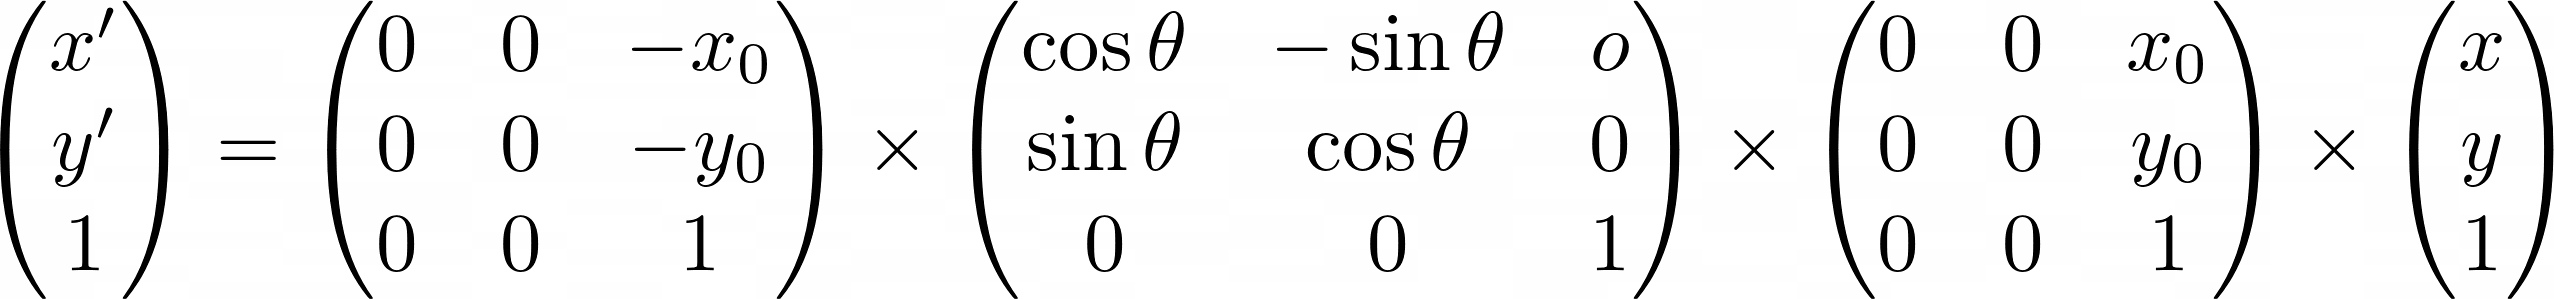
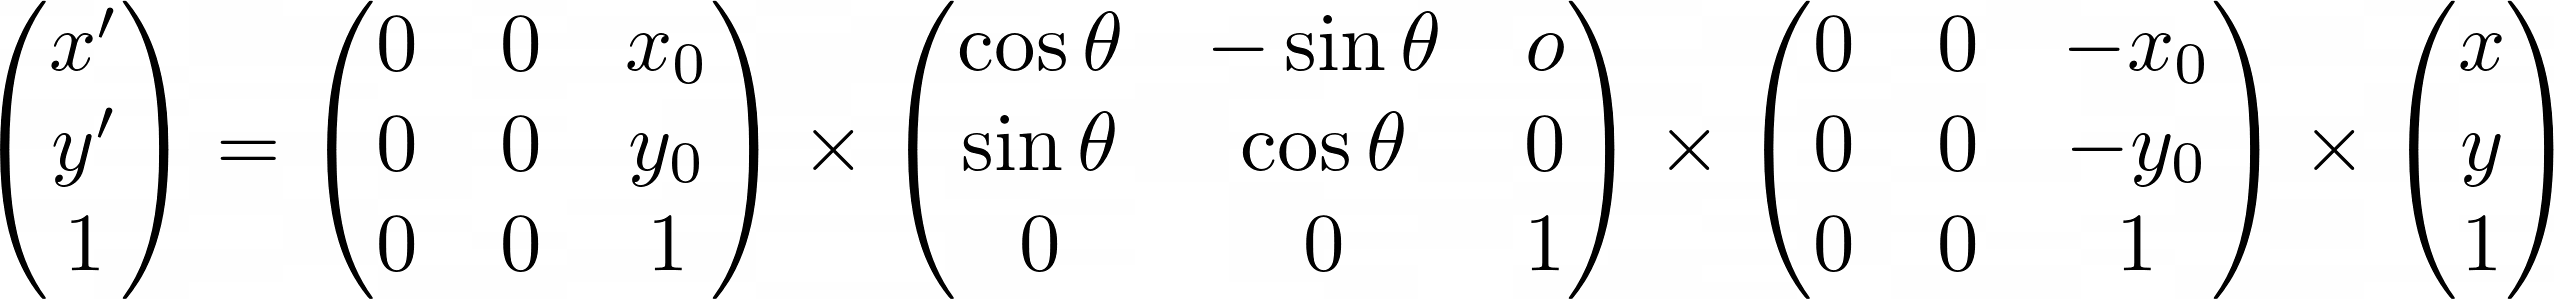
doc:文章修改

diff --git a/other/公式.tex b/other/公式.tex
@@ -1,0 +1,1 @@
+\begin{aligned}\begin{pmatrix} 0 & 0 & x _{0} \\ 0 & 0 & y_{0} \\ 0 & 0 & 1 \end{pmatrix}\begin{pmatrix} \cos \theta & -\sin \theta & o \\ \sin \theta & \cos \theta & 0 \\ 0 & 0 & 1 \end{pmatrix}\begin{pmatrix} 0 & 0 & -x_{0} \\ 0 & 0 & -y_{0} \\ 0 & 0 & 1 \end{pmatrix}\\ =\begin{pmatrix} 0 & 0 & -x_{0} \\ 0 & 0 & -y_{0} \\ 0 & 0 & 1 \end{pmatrix}\begin{pmatrix} 0 & 0 & 2x_{0} \\ 0 & 0 & 2y_{0} \\ 0 & 0 & 1 \end{pmatrix}\begin{pmatrix} \cos \theta & -\sin \theta & o \\ \sin \theta & \cos \theta & 0 \\ 0 & 0 & 1 \end{pmatrix}\begin{pmatrix} 0 & 0 & -2x_{0} \\ 0 & 0 & -2y_{0} \\ 0 & 0 & 1 \end{pmatrix}\begin{pmatrix} 0 & 0 & x _{0} \\ 0 & 0 & y_{0} \\ 0 & 0 & 1 \end{pmatrix}\end{aligned}

diff --git a/blogs/program/解决react-native无法设置transform-origin的问题.md b/blogs/program/解决react-native无法设置transform-origin的问题.md
@@ -22,13 +22,43 @@ tags:
 
 ![img](/img/公式1.png)
 
-简单说明下，先偏移`(x0, y0)`，此时原点来到之前的中心点A处，然后这时候就是绕原点旋转了，旋转结束后，再重新移动原来距离。
+
+简单说明下，先偏移`(x0, y0)`，此时原点变成中心点A处，然后这时候就是绕原点旋转了，旋转结束后，再重新移动原来距离。
 
 同理由于`react-native`是绕中心点旋转的，那么我们要让元素绕其他点B`(x1, y1)`旋转，只需在一开始先移动坐标轴`(-x1+x0, -y1+y0)`，旋转结束后，再移动`(x1-x0, y1-y0)`即可
 
 例如，我们有一个元素，宽高均为100像素，旋转中心为左上角，要是他绕中心点旋转30°，我们可以先让他向右，向下平移50像素，然后旋转45°，再向左，向上平移50像素，如下示意图：
 
 <div class="transform-demo transform-demo-0"></div>
+
+::: details 点击查看代码
+```css
+div.transform-demo-0::after {
+  transform-origin: 0 0;
+  animation: xixi 10s infinite linear forwards;
+}
+
+@keyframes xixi {
+  30% {
+    transform: translate(50%, 50%);
+  }
+
+  60% {
+    transform: translate(50%, 50%) rotate(45deg);
+  }
+
+  90%, 100% {
+    transform: translate(50%, 50%) rotate(45deg) translate(-50%, -50%);
+  }
+}
+```
+:::
+
+这里可能大家会有疑惑，按照公式上明明是先左上移动，再旋转，再右下移动，怎么这边又反过来了？其实很简单，因为不管怎么移动，元素始终是以左上角为旋转中心（即设置的`transform-origin`），因此我们需要对上面的公式做一下变化：
+
+![img](/img/公司2.png)
+
+中间的三个矩阵相乘即表示元素偏移`(x0, y0)`后绕其左上角旋转，即对应到`transform: rotate(θdeg)`
 
 ## 实践
 
@@ -94,7 +124,6 @@ div.transform-demo-3::after {
 ```
 
 <style>
-
   div.transform-demo{
     width: 100px;
     height: 100px;
